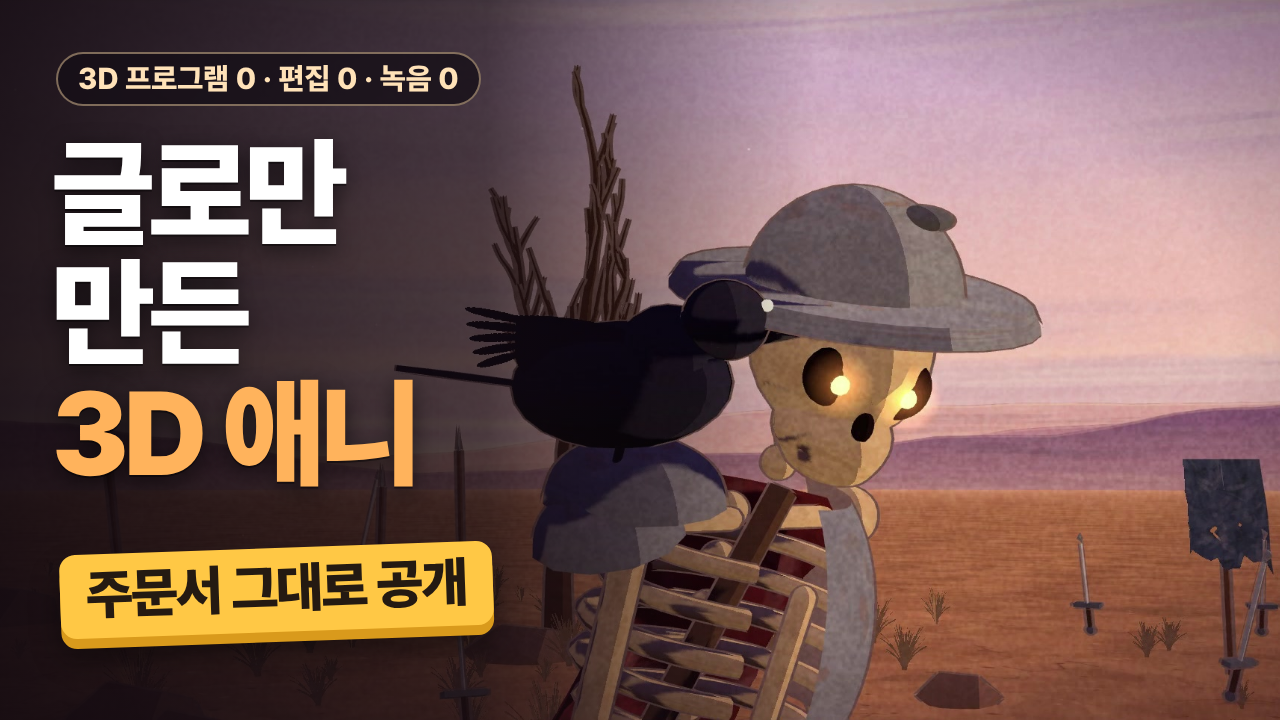
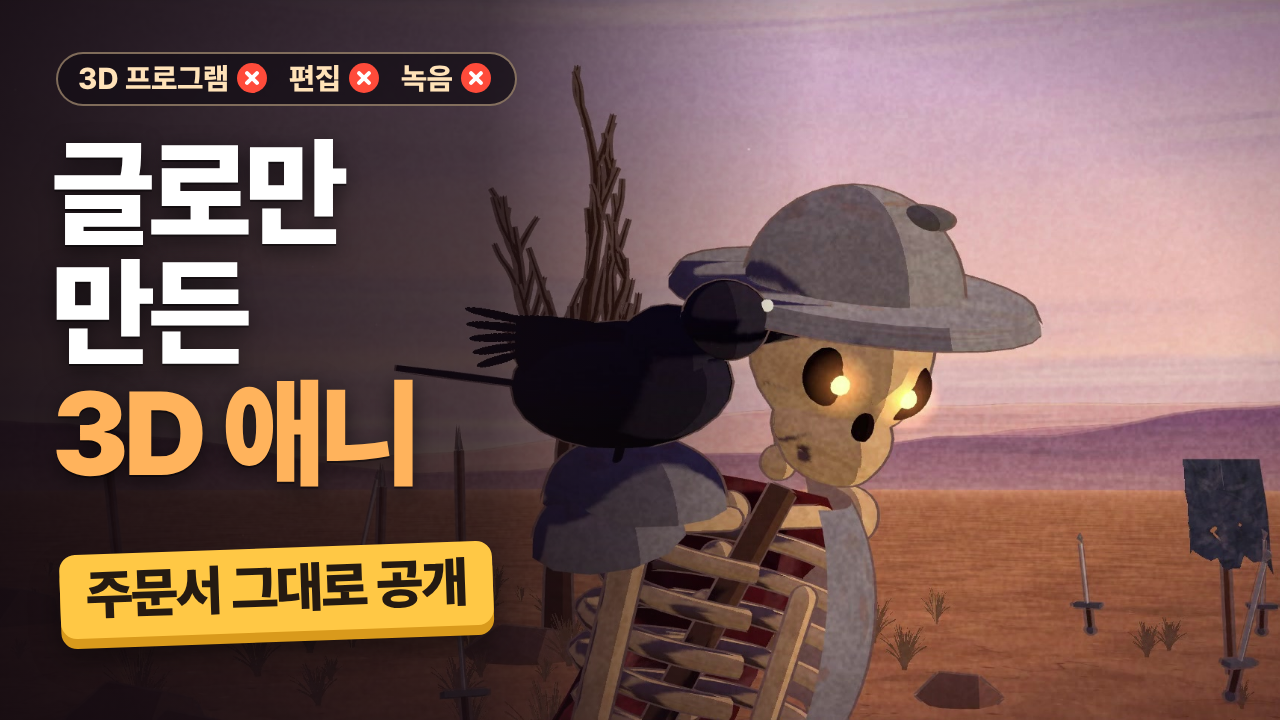
making-dusk-knight: 썸네일 A 좌측 상단 0 → 빨간 X 아이콘
Claude-Session: https://claude.ai/code/session_01MriB71GyAkQdkXqqAvWEhd

Changed region(s): [[0.1875, 0.0611, 0.4062, 0.1528]]

diff --git a/making-dusk-knight/thumbnail/thumb.css b/making-dusk-knight/thumbnail/thumb.css
@@ -23,3 +23,7 @@ body { position: relative; font-family: 'Pretendard', sans-serif; background: #1
 .xx { position: absolute; width: 150px; height: 150px; }
 .xx::before, .xx::after { content: ''; position: absolute; left: 62px; top: -8px; width: 26px; height: 166px; border-radius: 13px; background: #ff4b3a; box-shadow: 0 6px 16px rgba(0, 0, 0, 0.45); }
 .xx::before { transform: rotate(45deg); } .xx::after { transform: rotate(-45deg); }
+.chip .ix { position: relative; display: inline-block; width: 30px; height: 30px; margin: 0 4px 0 8px; vertical-align: -4px; border-radius: 50%; background: #ff4b3a; }
+.chip .ix::before, .chip .ix::after { content: ''; position: absolute; left: 13px; top: 6px; width: 4px; height: 18px; border-radius: 2px; background: #fff; }
+.chip .ix::before { transform: rotate(45deg); } .chip .ix::after { transform: rotate(-45deg); }
+.chip .sep { display: inline-block; width: 18px; }

diff --git a/making-dusk-knight/thumbnail/thumbnail_a.html b/making-dusk-knight/thumbnail/thumbnail_a.html
@@ -4,7 +4,7 @@
 <body>
 <img class="bg" src="../assets/user/img/thumb_face.jpg" style="object-position: 70% 50%">
 <div class="shade" style="background: linear-gradient(90deg, rgba(18,10,16,0.92) 0%, rgba(18,10,16,0.72) 38%, rgba(18,10,16,0) 64%)"></div>
-<span class="chip" style="left:56px; top:52px">3D 프로그램 0 · 편집 0 · 녹음 0</span>
+<span class="chip" style="left:56px; top:52px">3D 프로그램<i class="ix"></i><span class="sep"></span>편집<i class="ix"></i><span class="sep"></span>녹음<i class="ix"></i></span>
 <div class="head" style="left:52px; top:132px; font-size:118px">글로만<br>만든<br><em>3D 애니</em></div>
 <span class="tag" style="left:60px; top:548px">주문서 그대로 공개</span>
 </body></html>
